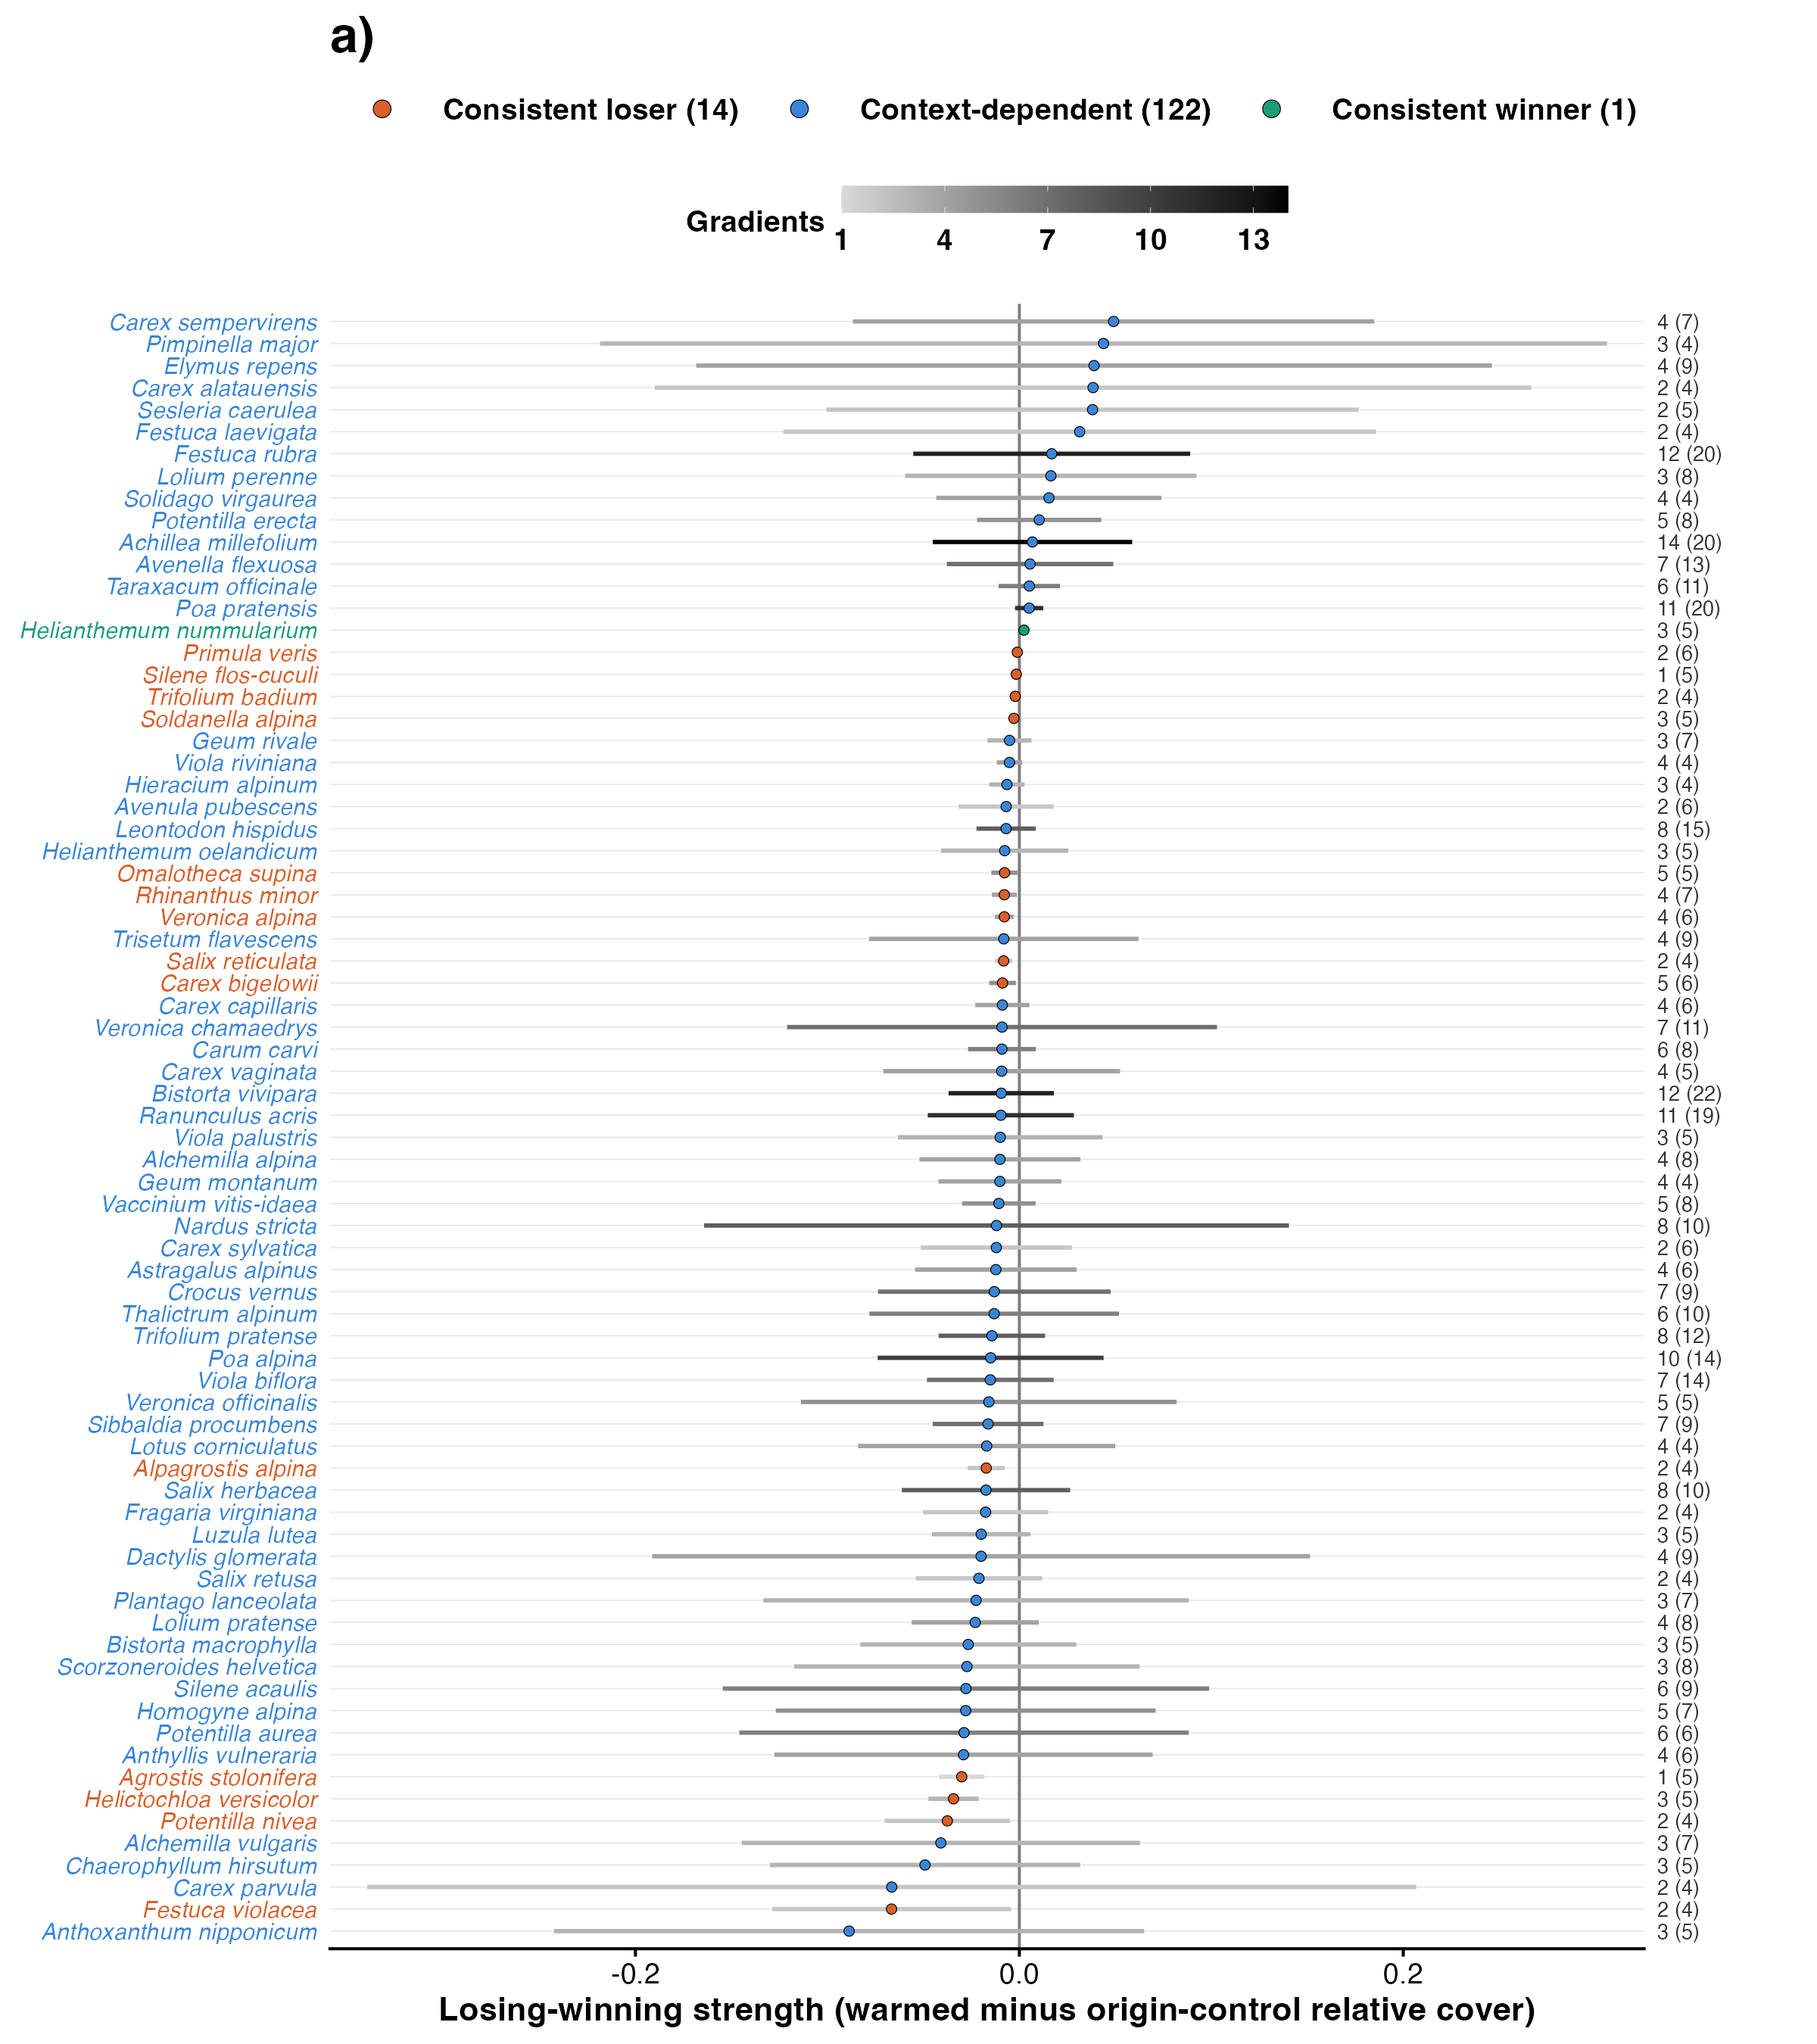
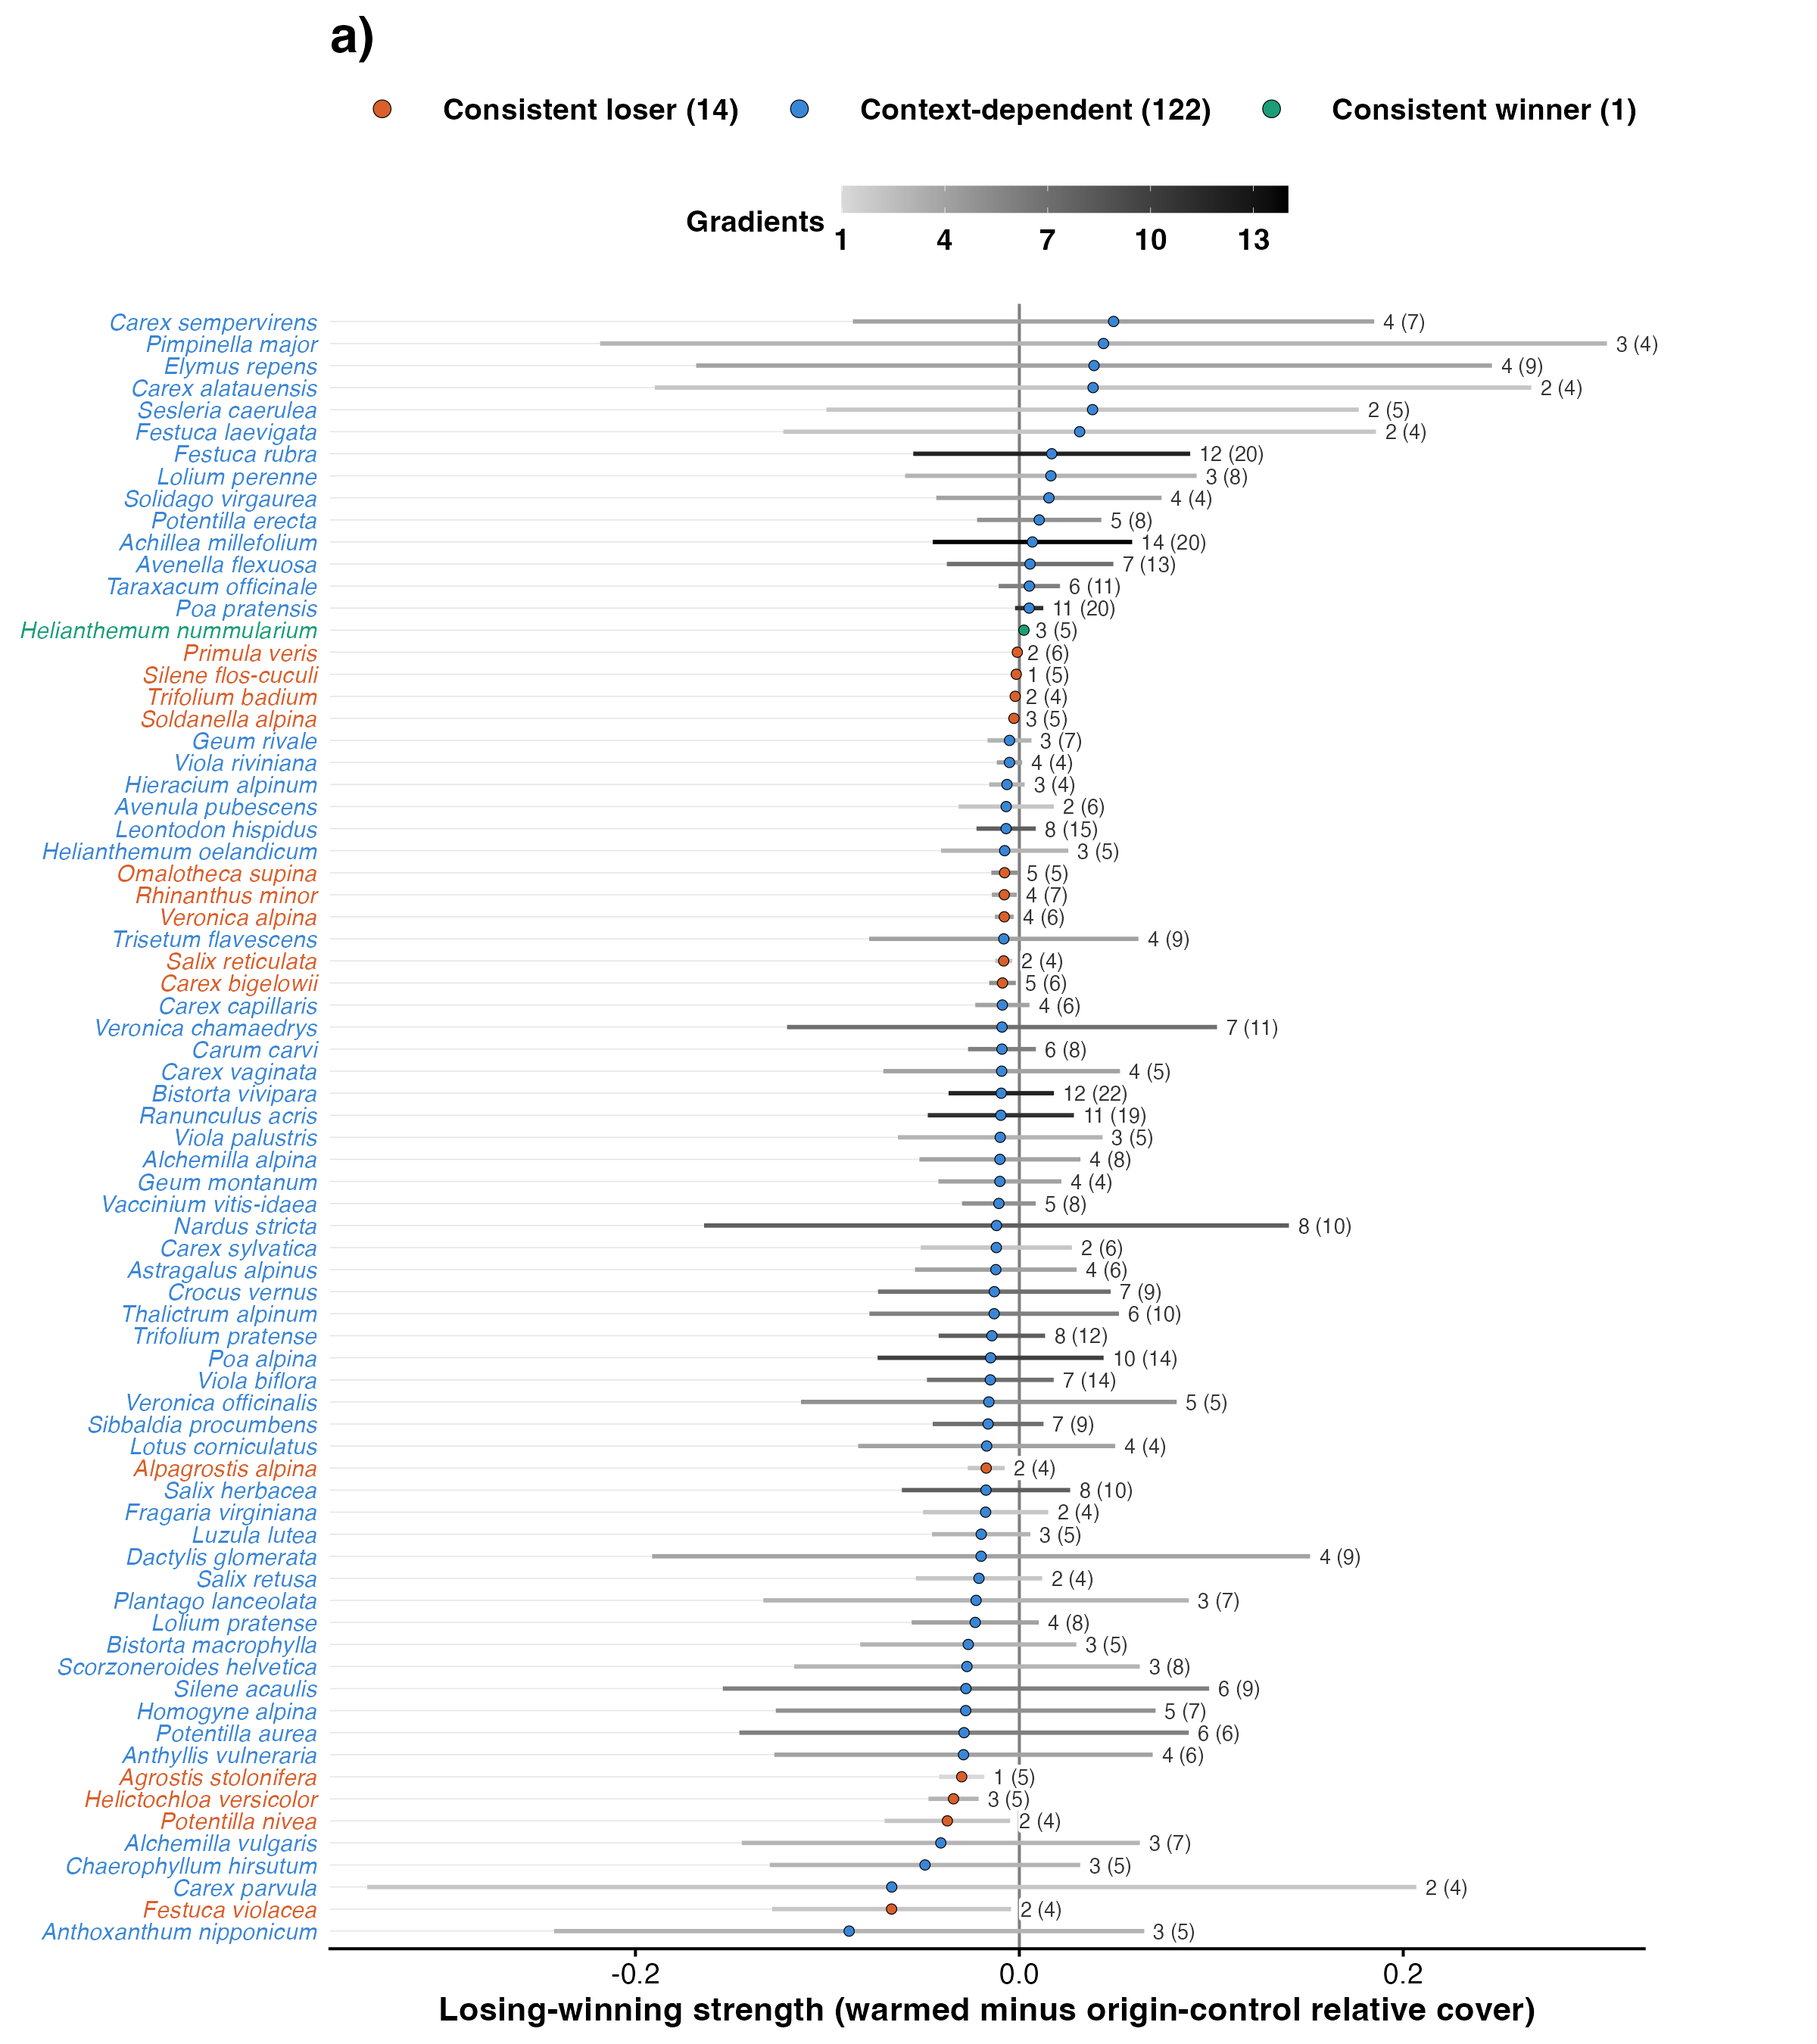
step 04: Fig S6 'gradients (experiments)' just right of each interval, on a white background; light guide from names to intervals (Bills)

diff --git a/reports/04_classification.md b/reports/04_classification.md
@@ -66,6 +66,8 @@ Fig S6: point = pooled strength, filled by class; line = 95% interval including 
 ## Warnings captured
 
 - Refitted with the bobyqa optimizer after nlminb did not declare convergence (tau2_s at 0): Bartsia alpina.
+- The `label.size` argument of `geom_label()` is deprecated as of ggplot2 3.5.0.
+ℹ Please use the `linewidth` argument instead.
 
 ## Deviations from PLAN.md
 
